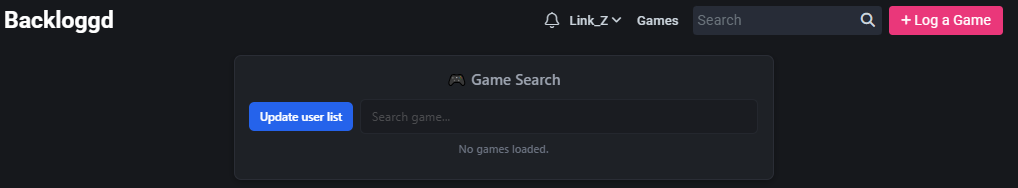
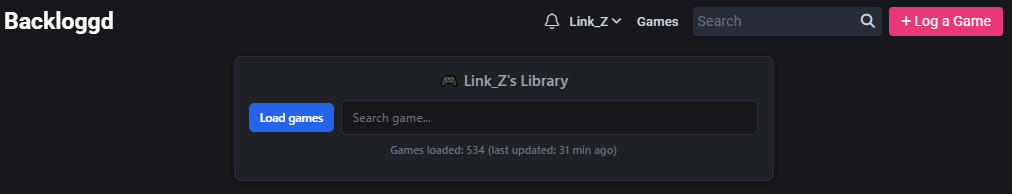
clearer texts

diff --git a/backloggd-extension/content.js b/backloggd-extension/content.js
@@ -424,7 +424,7 @@ class BackloggdExtension {
     
     container.innerHTML = `
       <h2 style="margin:0 0 12px 0; font-size:1.1em; text-align:center; color:#9ca3af; font-weight:600;">
-        🎮 Game Search
+        🎮 ${this.username}'s Library
       </h2>
       
       <div style="display:flex; align-items:center; gap:8px; margin-bottom:8px;">
@@ -438,7 +438,7 @@ class BackloggdExtension {
           cursor: pointer;
           font-weight: 500;
           transition: background 0.2s;
-        ">Update user list</button>
+        ">Load games</button>
         
         <span id="loader" style="display:none; color:#9ca3af;">⏳ Loading...</span>
         
